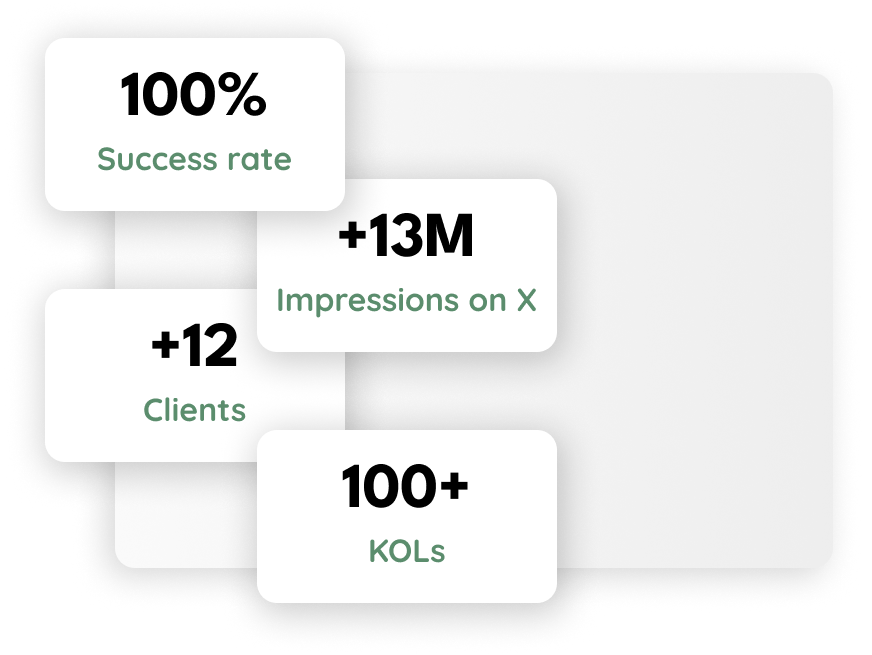
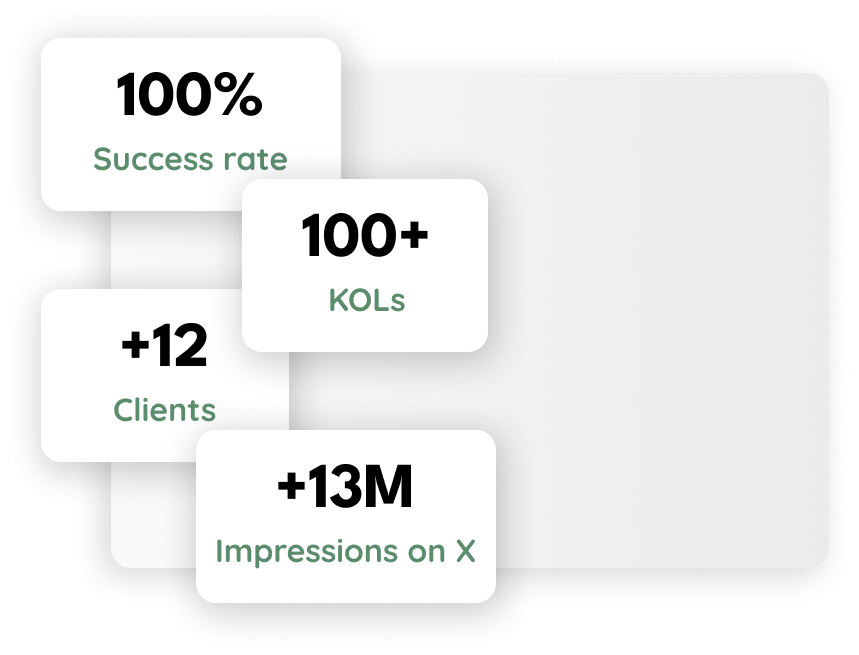
last update on the main the sizing with the landing page's image

diff --git a/styles.css b/styles.css
@@ -306,13 +306,13 @@ nav.visible {
   width: 100%;
   margin: 64px;
   margin-top: 70px;
-  margin-left: 256px;
+  margin-left: 128px;
   margin-bottom: 0px;
   overflow: visible;
   box-sizing: border-box;
   position: relative;
   align-items: center;
-  gap: 128px;
+  gap: 64px;
   height: fit-content;
 }
 
@@ -1455,7 +1455,7 @@ justify-content: center;
 
 
 
-@media (max-width: 1200px) {
+@media (max-width: 1400px) {
 
 
 
